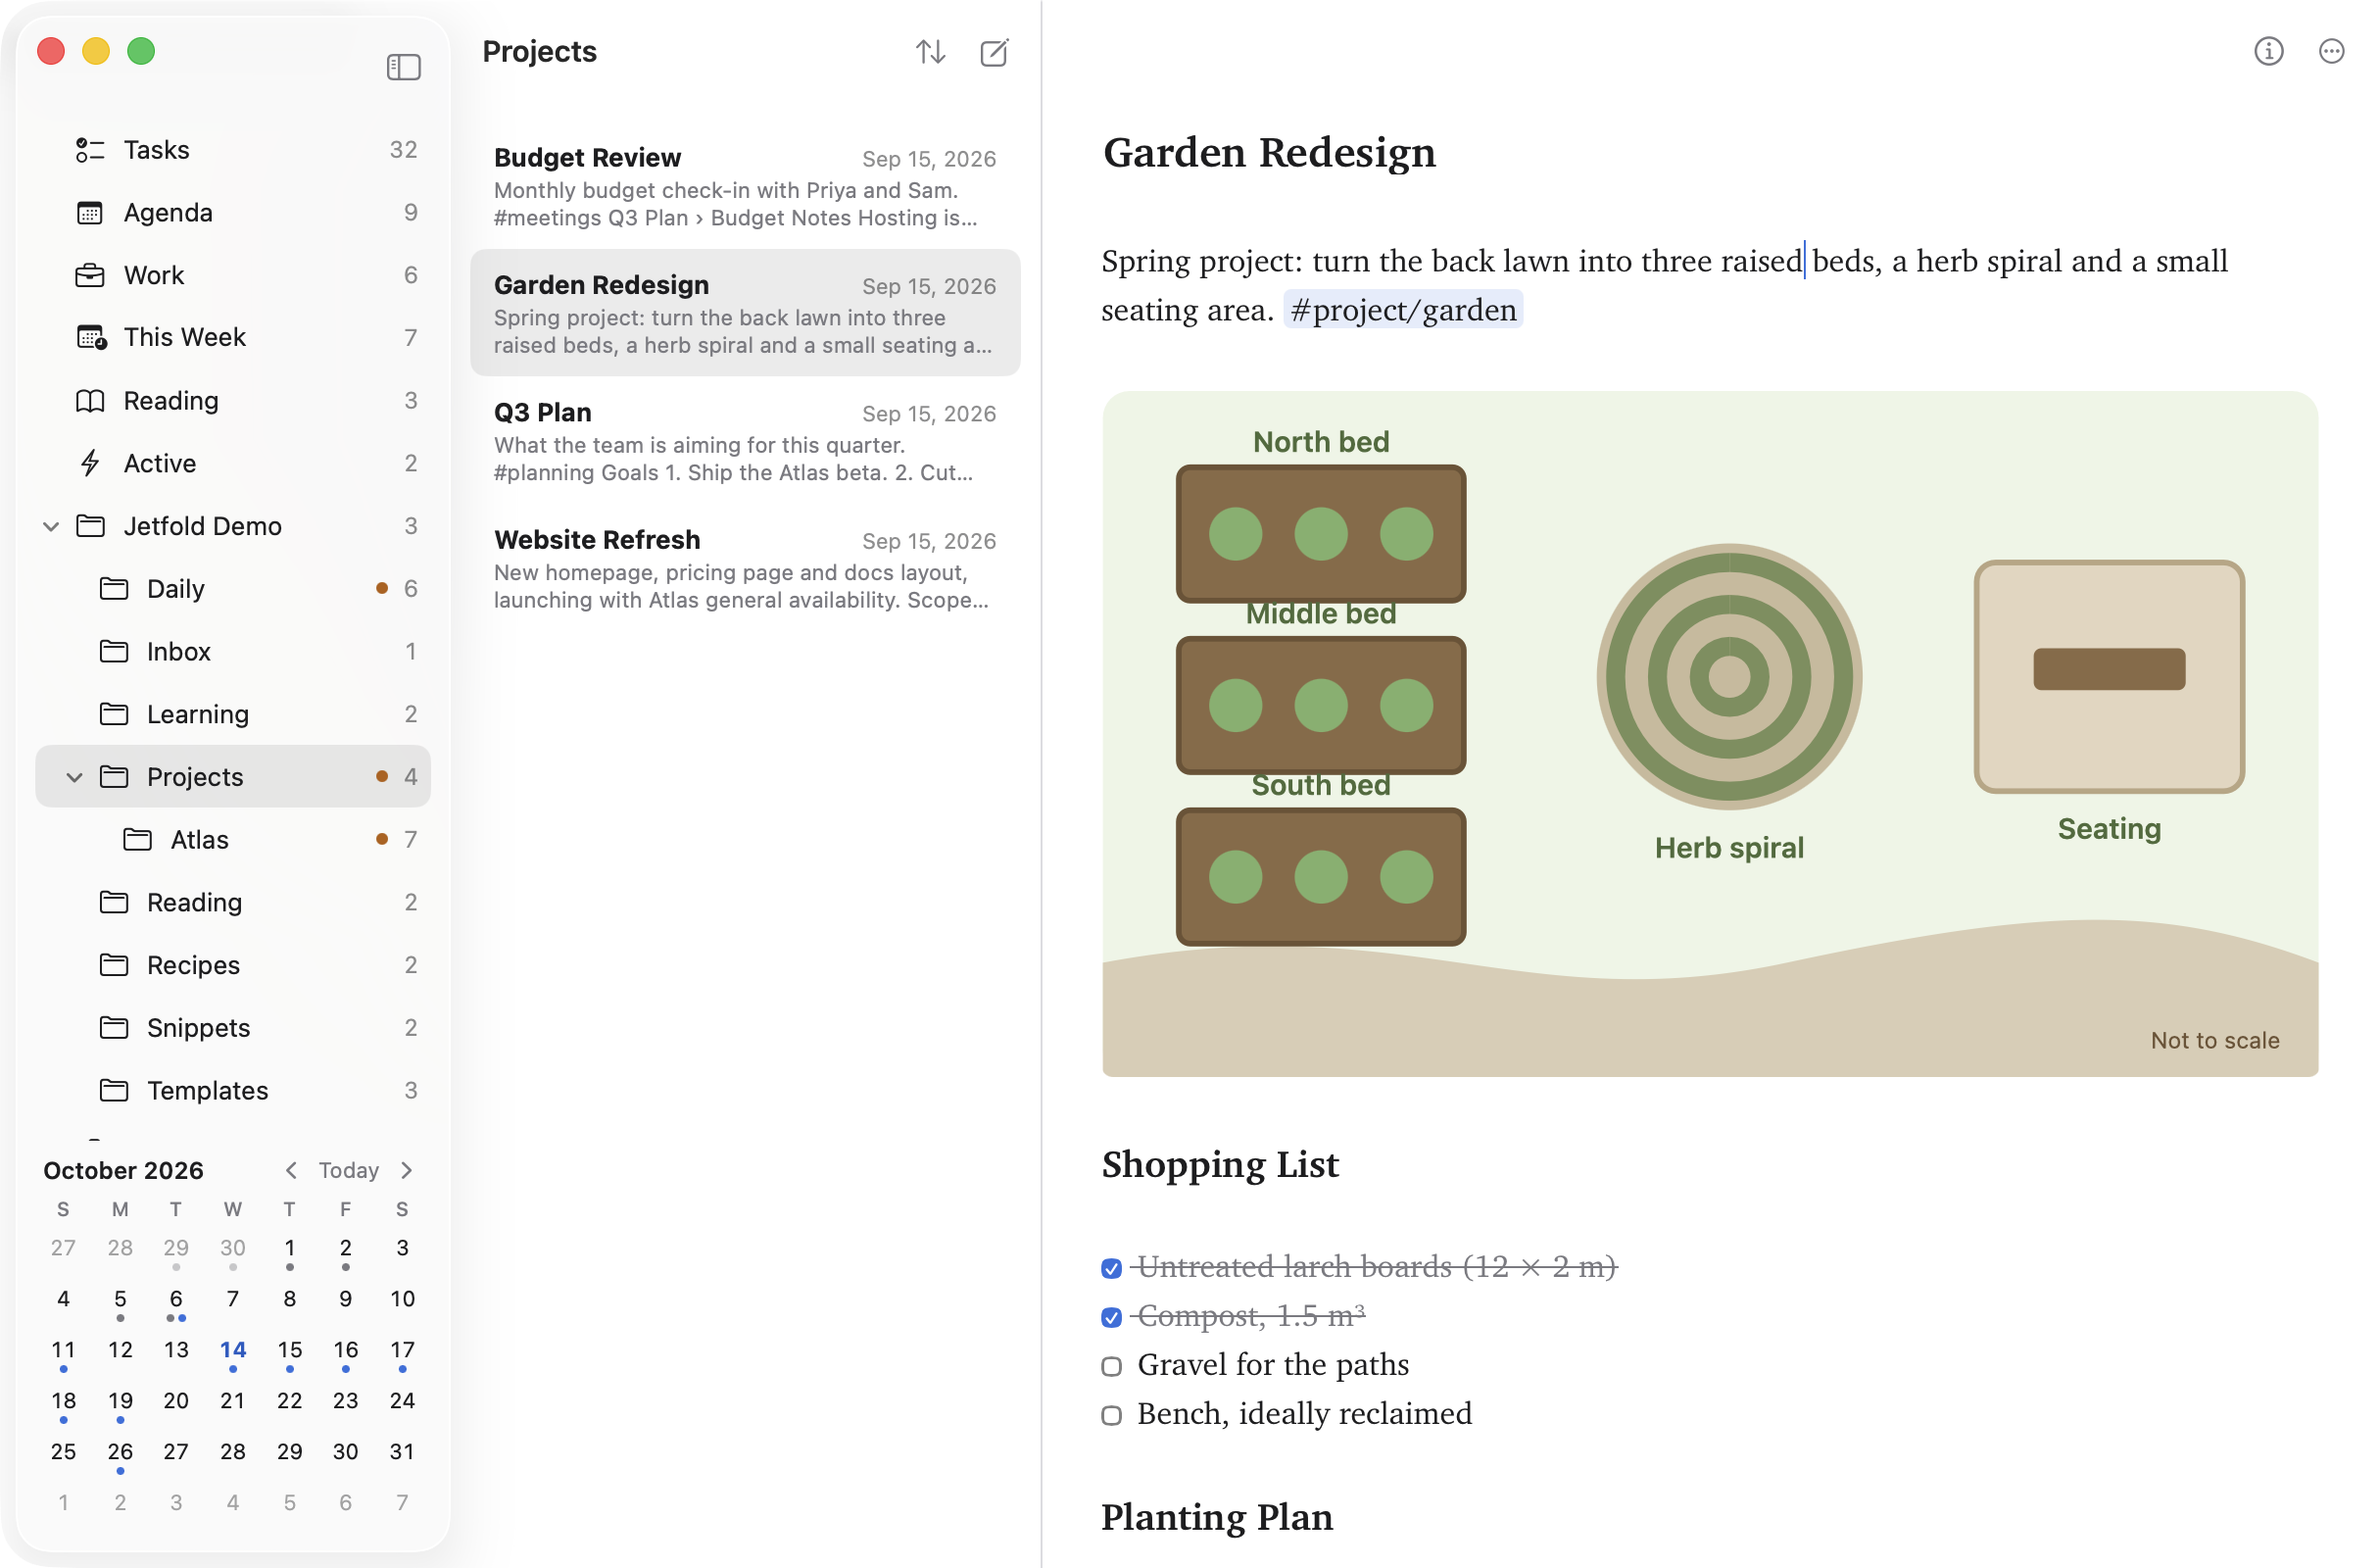
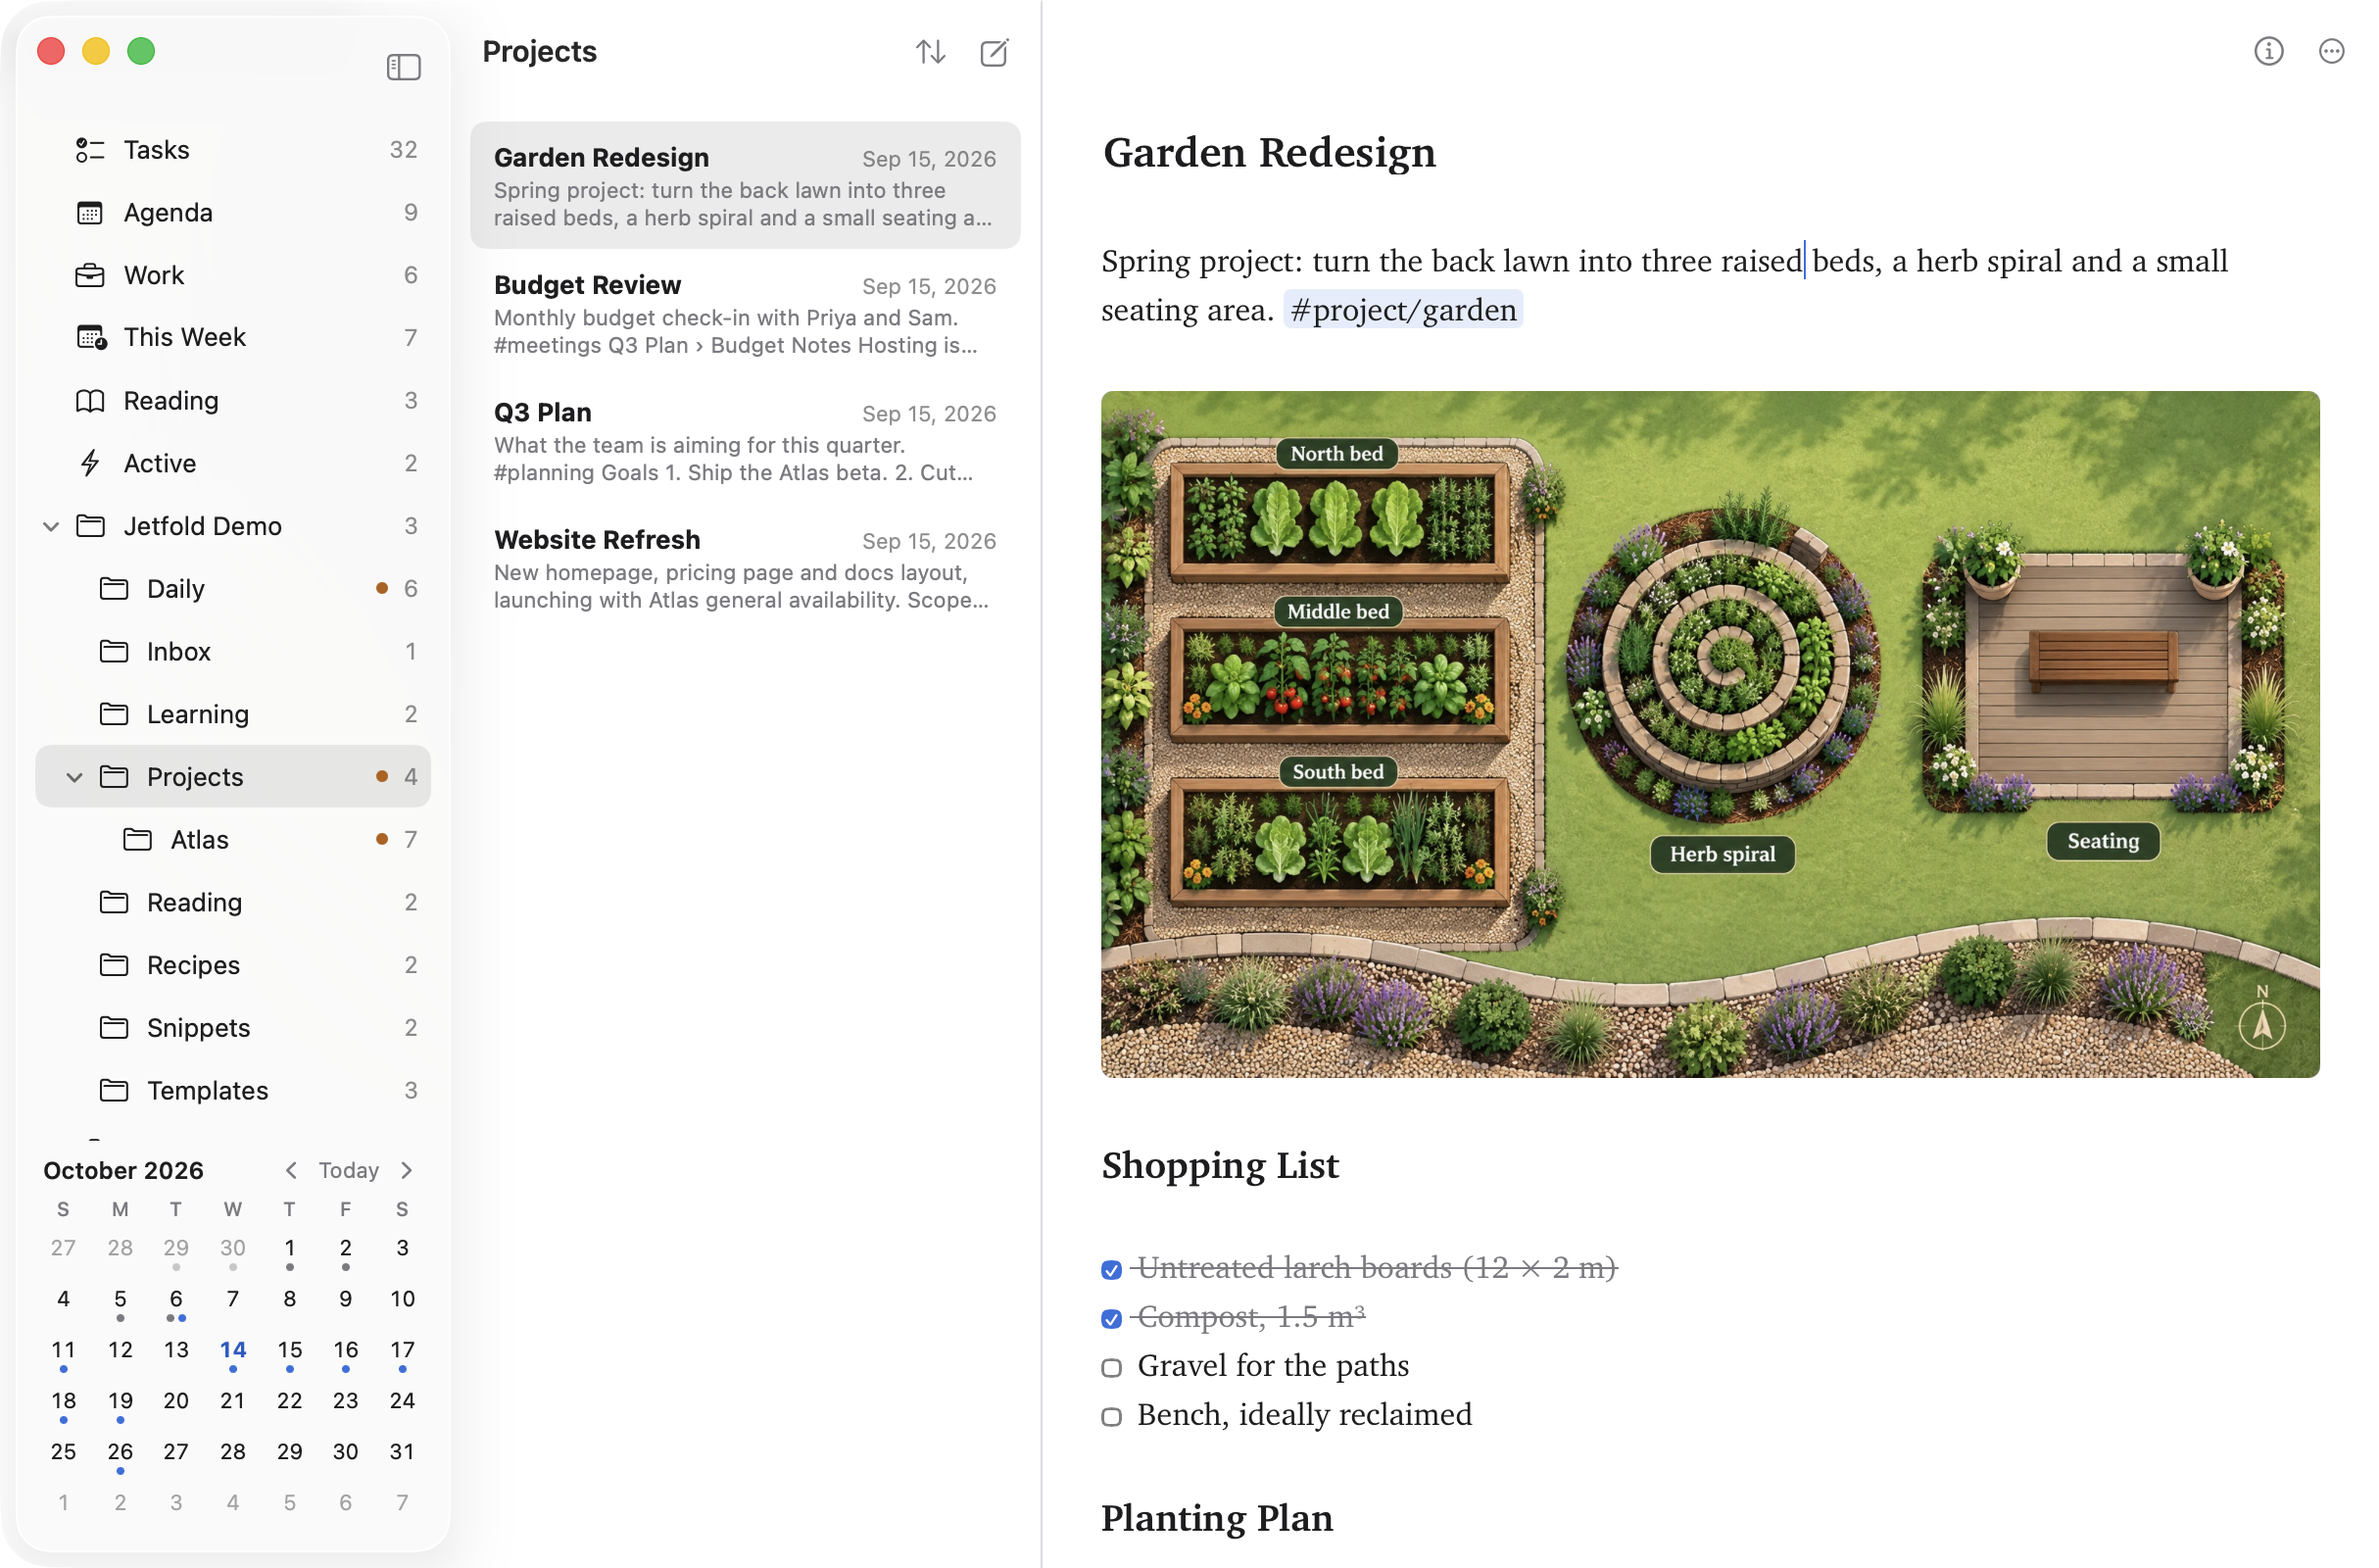
screenshots: retake with the new garden picture

diff --git a/src/pages/index.html b/src/pages/index.html
@@ -108,7 +108,7 @@
 ├── Projects/
 │   ├── <b>Atlas Launch Plan.md</b>
 │   └── <b>Garden Redesign.md</b>
-├── .assets/garden-layout.png
+├── .assets/garden-layout.jpg
 └── .jetfold/settings.json</pre>
 </section>
 
